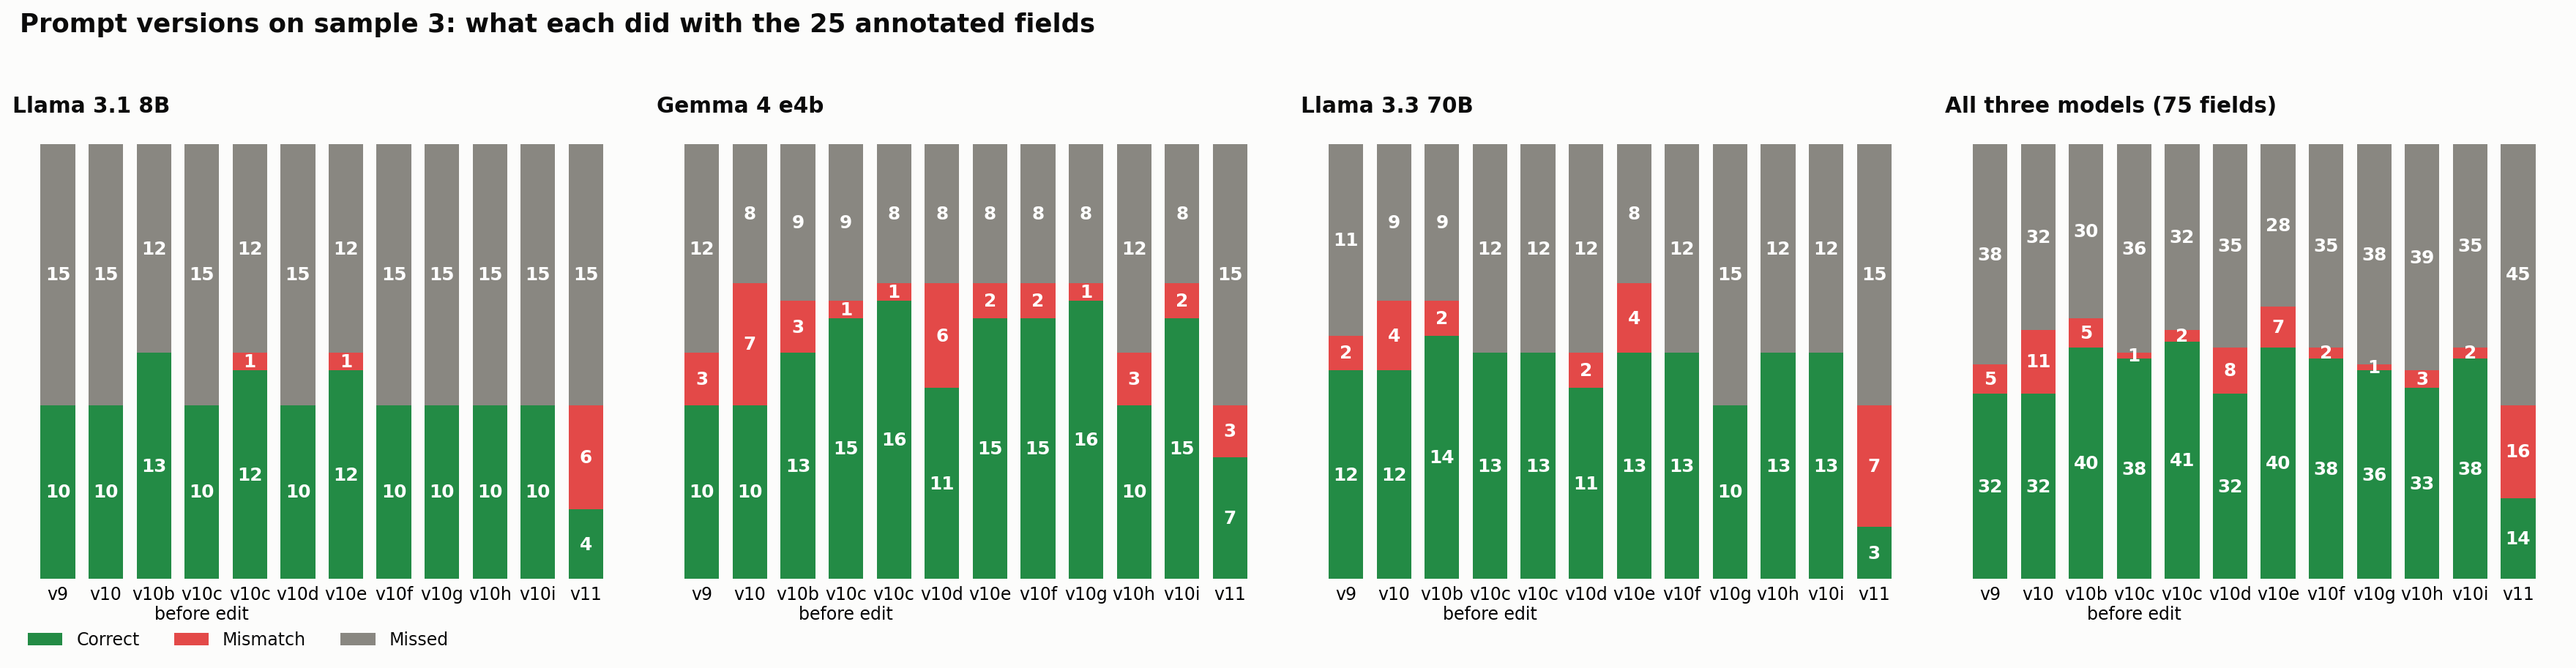
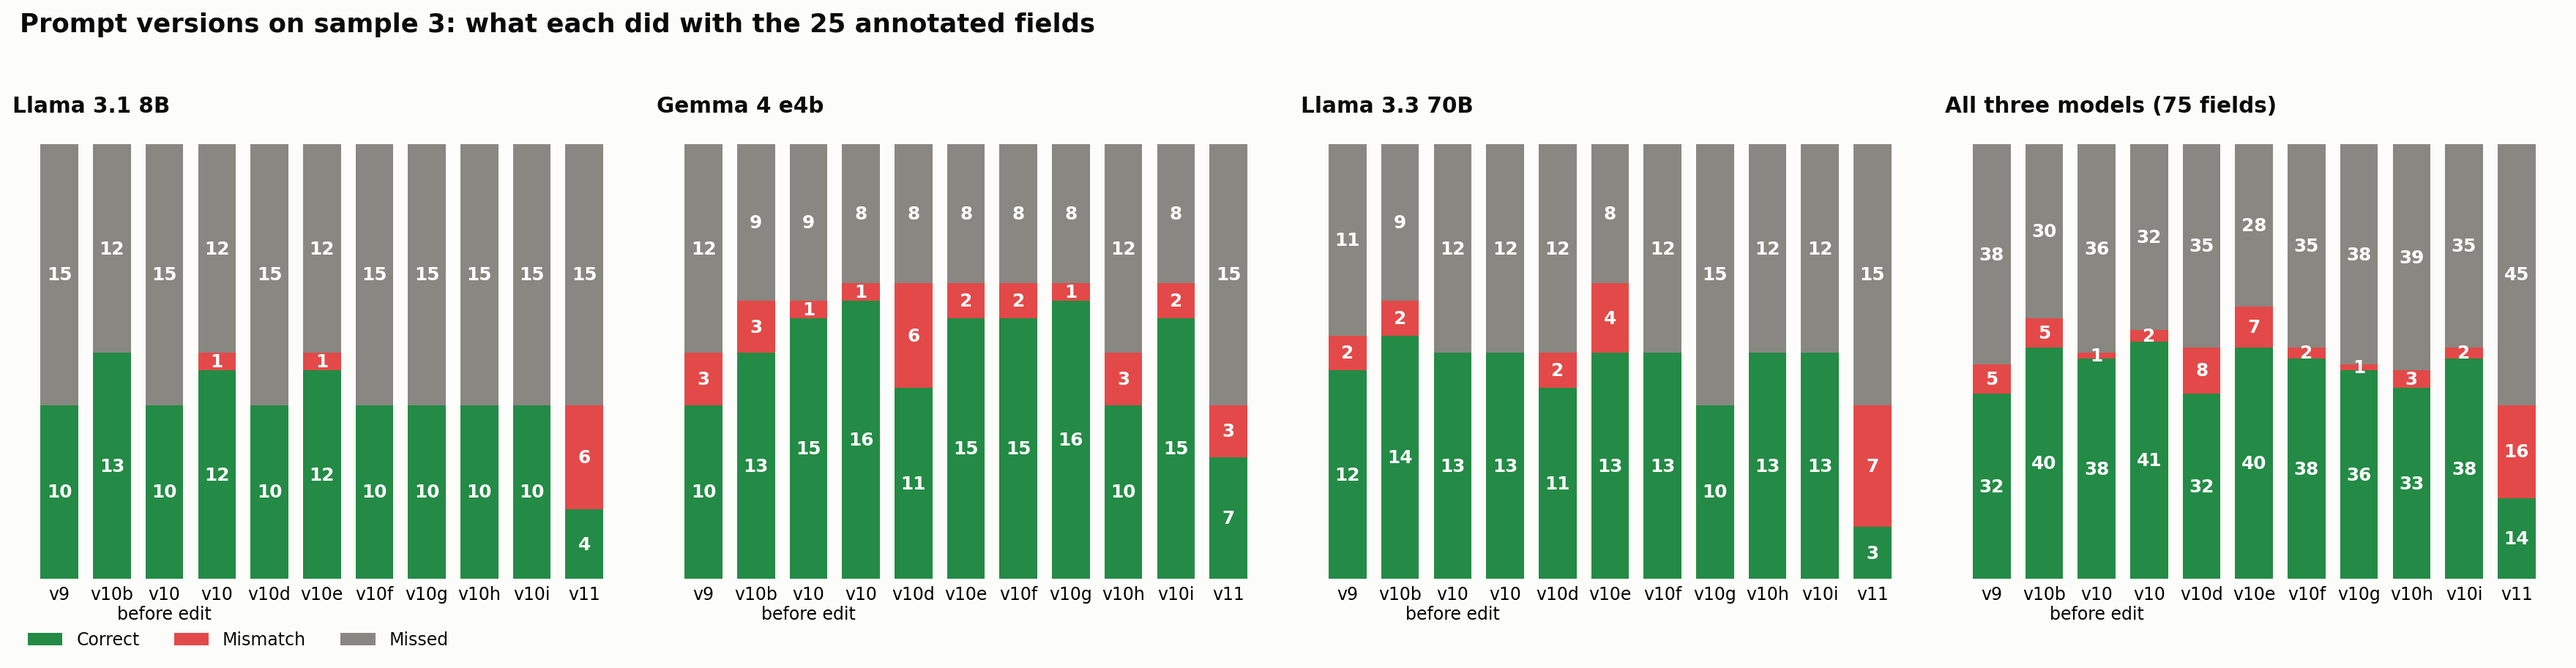
Refactor narrative plan descriptions and update version labels in RDA notebooks
- Updated the narrative plan description in build_rda_extraction_notebook.py to clarify the schema prompt versioning.
- Adjusted version labels in build_rda_version_comparison_notebook.py for consistency and clarity, changing "v10c" to "v10" and updating the before edit label.

diff --git a/scripts/build/build_rda_extraction_notebook.py b/scripts/build/build_rda_extraction_notebook.py
@@ -32,14 +32,14 @@ NARRATIVE = {
     "samples":  [3],
     "run":      "v11-sample3",
     # False: the schema text is left out of the user prompt (it stays the output
-    # constraint), as in v10c and later. True puts it back, as in v10b and v10e.
+    # constraint), as in v10 and later. True puts it back, as in v10b and v10e.
     "schema_in_prompt": False,
     # The user prompt, with {dmp_text} for the plan's text. Omit for the default wording.
     # A two-part prompt file (SYSTEM: ... PROMPT: ...) carries its own and overrides this.
     # "user_prompt": "...",
     "title":    "# PDF to RDA DMP JSON - narrative plans\n\n"
                 "For traditional narrative plans - sections of prose, as in sample 3 - with "
-                "their own prompt (v11: the pipeline's prompt.txt - v10c's rules plus a "
+                "their own prompt (v11: the pipeline's prompt.txt - v10's rules plus a "
                 "no-hallucination rule, a marked form explained in the schema's own words, "
                 "no field notes; no schema text in the prompt). DMPTool-style plans such as "
                 "sample 14 use "

diff --git a/dmpbridge/rda/extract.py b/dmpbridge/rda/extract.py
@@ -13,7 +13,7 @@ when the prompt is sent, so a fallback date is the day the pipeline runs rather 
 a date written into the file. The complete, unmodified maDMP 1.2 schema
 (``maDMP-schema-1.2.json``, ``$ref`` pointers resolved) is not in the prompt - it is
 Ollama's structured-output ``format``, which constrains the answer to the schema's
-structure. Versions up to v10b also pasted the schema into the prompt as text; v10c
+structure. Versions up to v10b also pasted the schema into the prompt as text; v10
 dropped it, cutting the prompt from about 11,700 tokens to about 2,400. The versions
 are in scripts/build/prompts/ and their results in notebooks/rda-experiments/runs/.
 
@@ -33,7 +33,7 @@ from ..core import config
 from ..models.ollama import OllamaModel
 
 HERE = Path(__file__).parent
-PROMPT_VERSION = "v10c"                      # the best measured version - see notebooks/rda-version-comparison.ipynb
+PROMPT_VERSION = "v10"                      # the best measured version - see notebooks/rda-version-comparison.ipynb
 PROMPT_FILE = HERE / "prompt.txt"
 SCHEMA_FILE = HERE / "maDMP-schema-1.2.json"
 

diff --git a/scripts/build/build_rda_version_comparison_notebook.py b/scripts/build/build_rda_version_comparison_notebook.py
@@ -57,10 +57,9 @@ from dmpbridge.rda import evaluate as E
 SAMPLE = 3
 # (label shown in the figure, folder under notebooks/rda-experiments/runs/)
 RUNS = [("v9",                "v9"),
-        ("v10",               "v10-sample3"),
         ("v10b",              "v10b-sample3"),
-        ("v10c\nbefore edit", "v10c-before-edit-sample3"),
-        ("v10c",              "v10c-sample3"),
+        ("v10\nbefore edit", "v10-before-edit-sample3"),
+        ("v10",              "v10-sample3"),
         ("v10d",              "v10d-sample3"),
         ("v10e",              "v10e-sample3"),
         ("v10f",              "v10f-sample3"),
